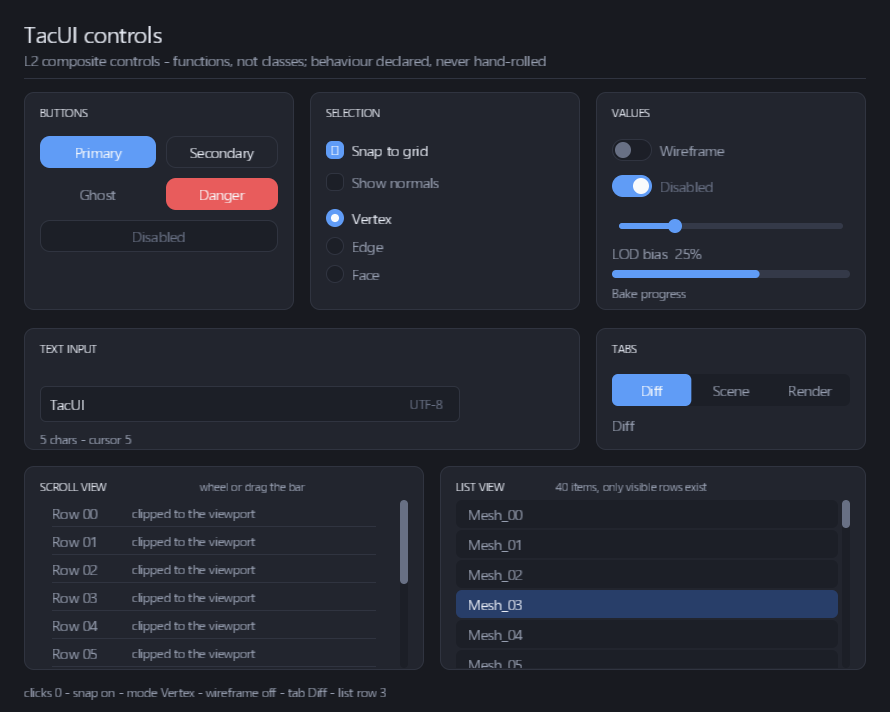
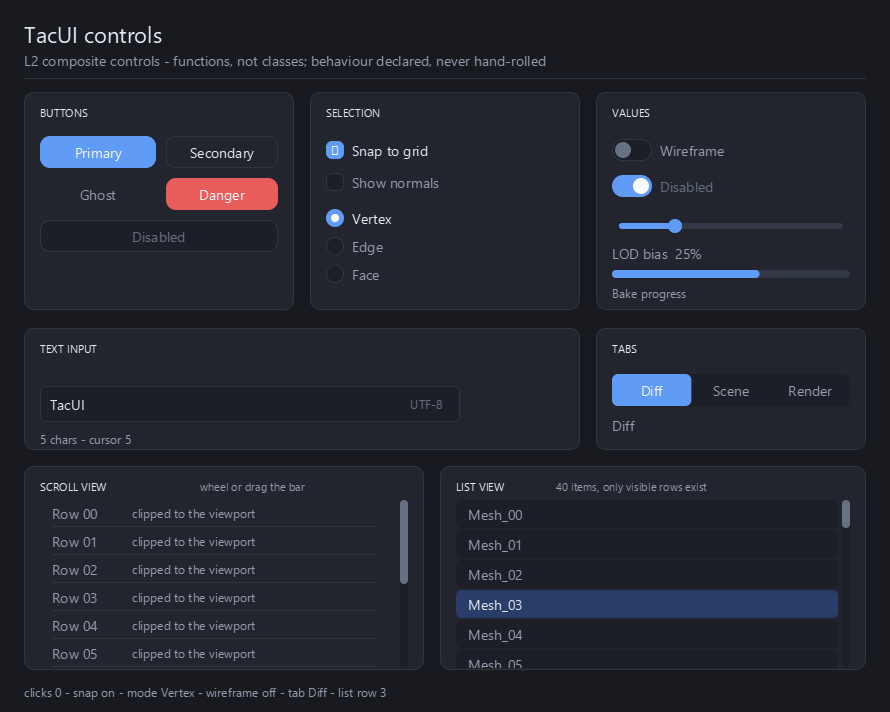
docs(text): 记录 UV 缺陷与 DPI 缺口，更新基准截图
plan.md 缺陷清单加第 10 条（#9 发糊的另一个原因：UV 内缩导致逐像素重采样，附 1.65x 边沿能量实测）；integration.md 把 DPI 感知列为对接缺口；docs/img/controls.png 换成修复后的确定性截图（两次捕获哈希一致）。

diff --git a/docs/integration.md b/docs/integration.md
@@ -87,6 +87,7 @@ device->endFrame();
 | ~~事件冒泡~~ | 已完成：命中链 + 按消费传播 | —— |
 | ~~裁剪~~ | 已完成：`Builder::clip()` + 图元 scissor | —— |
 | ~~布局~~（row / column） | 已完成：相对容器按提示 / flex / 间距摆放，绝对子树整体平移 | —— |
+| DPI 感知 | 进程未声明 DPI 感知（无 manifest、无 `SetProcessDPIAware`），在 125% / 150% 缩放下整窗会被系统位图拉伸，文字明显发糊 | 任何非 100% 缩放的显示器 |
 | HarfBuzz + ICU | 现在的文本栈是单字体、码点→字形 1:1 | 中日韩排版、断行 |
 | IME | 中文输入 | 任何需要输入中文的地方 |
 | 多窗口 / 弹层 | 浮动面板、菜单 | 桌面应用形态 |
